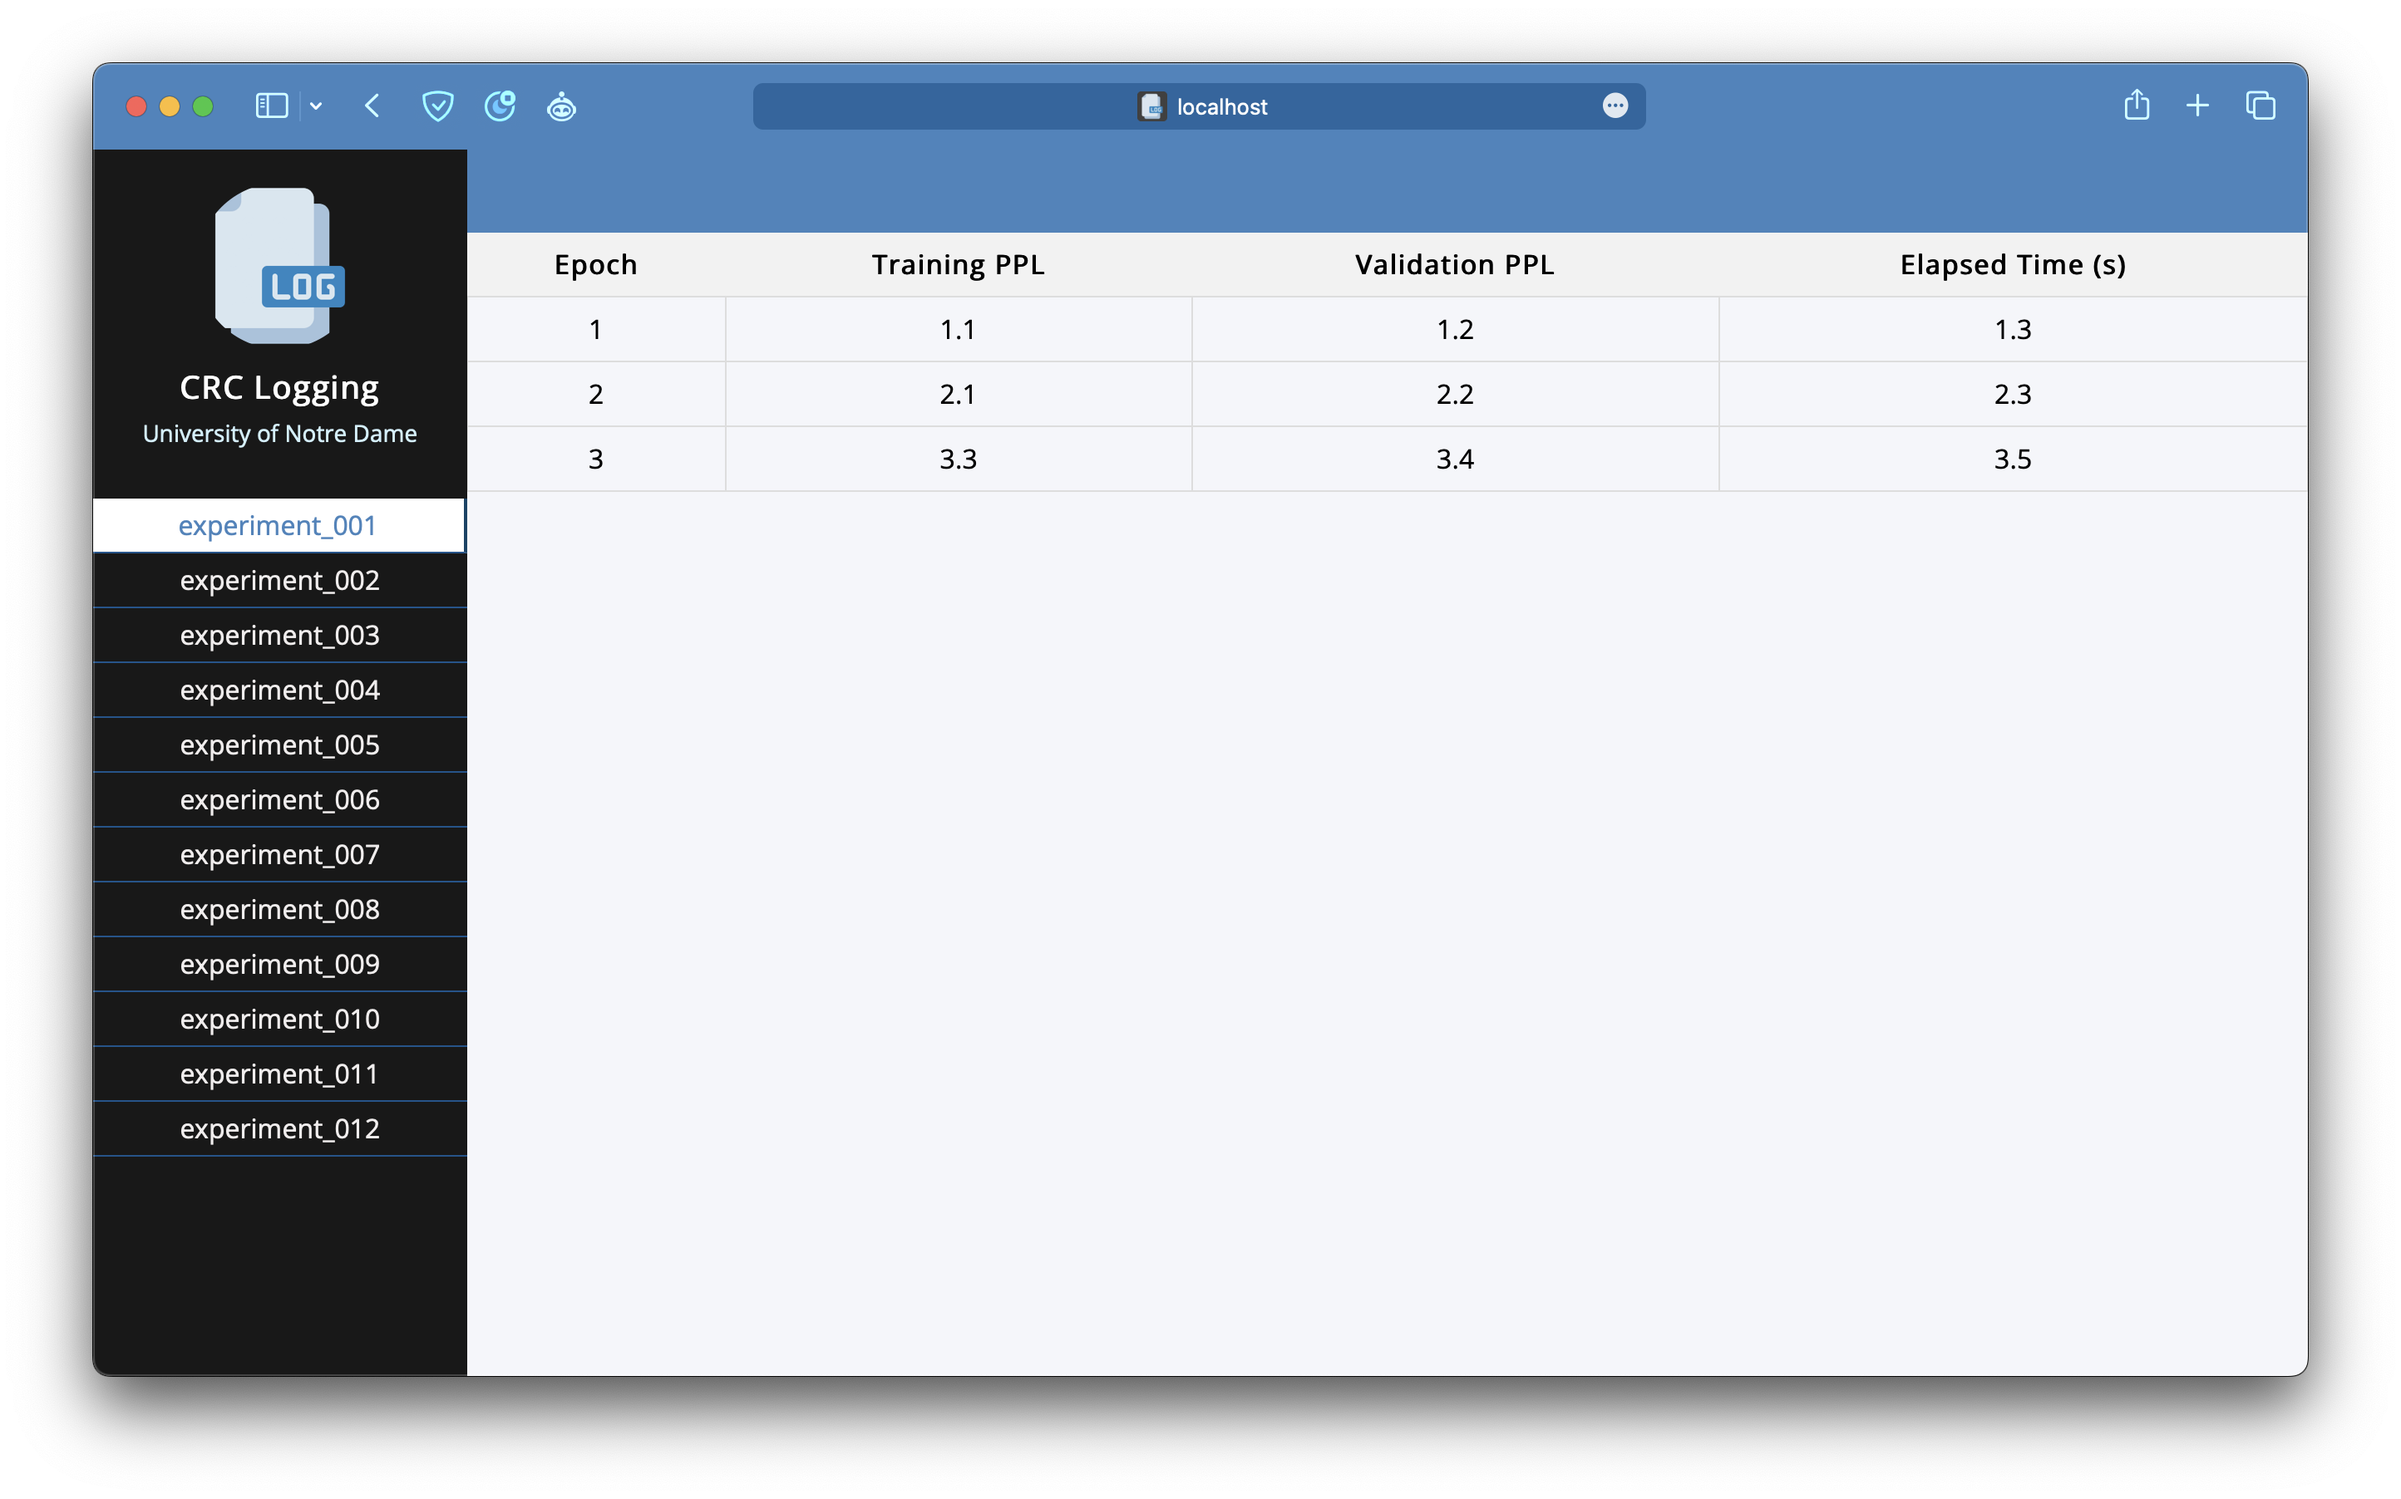
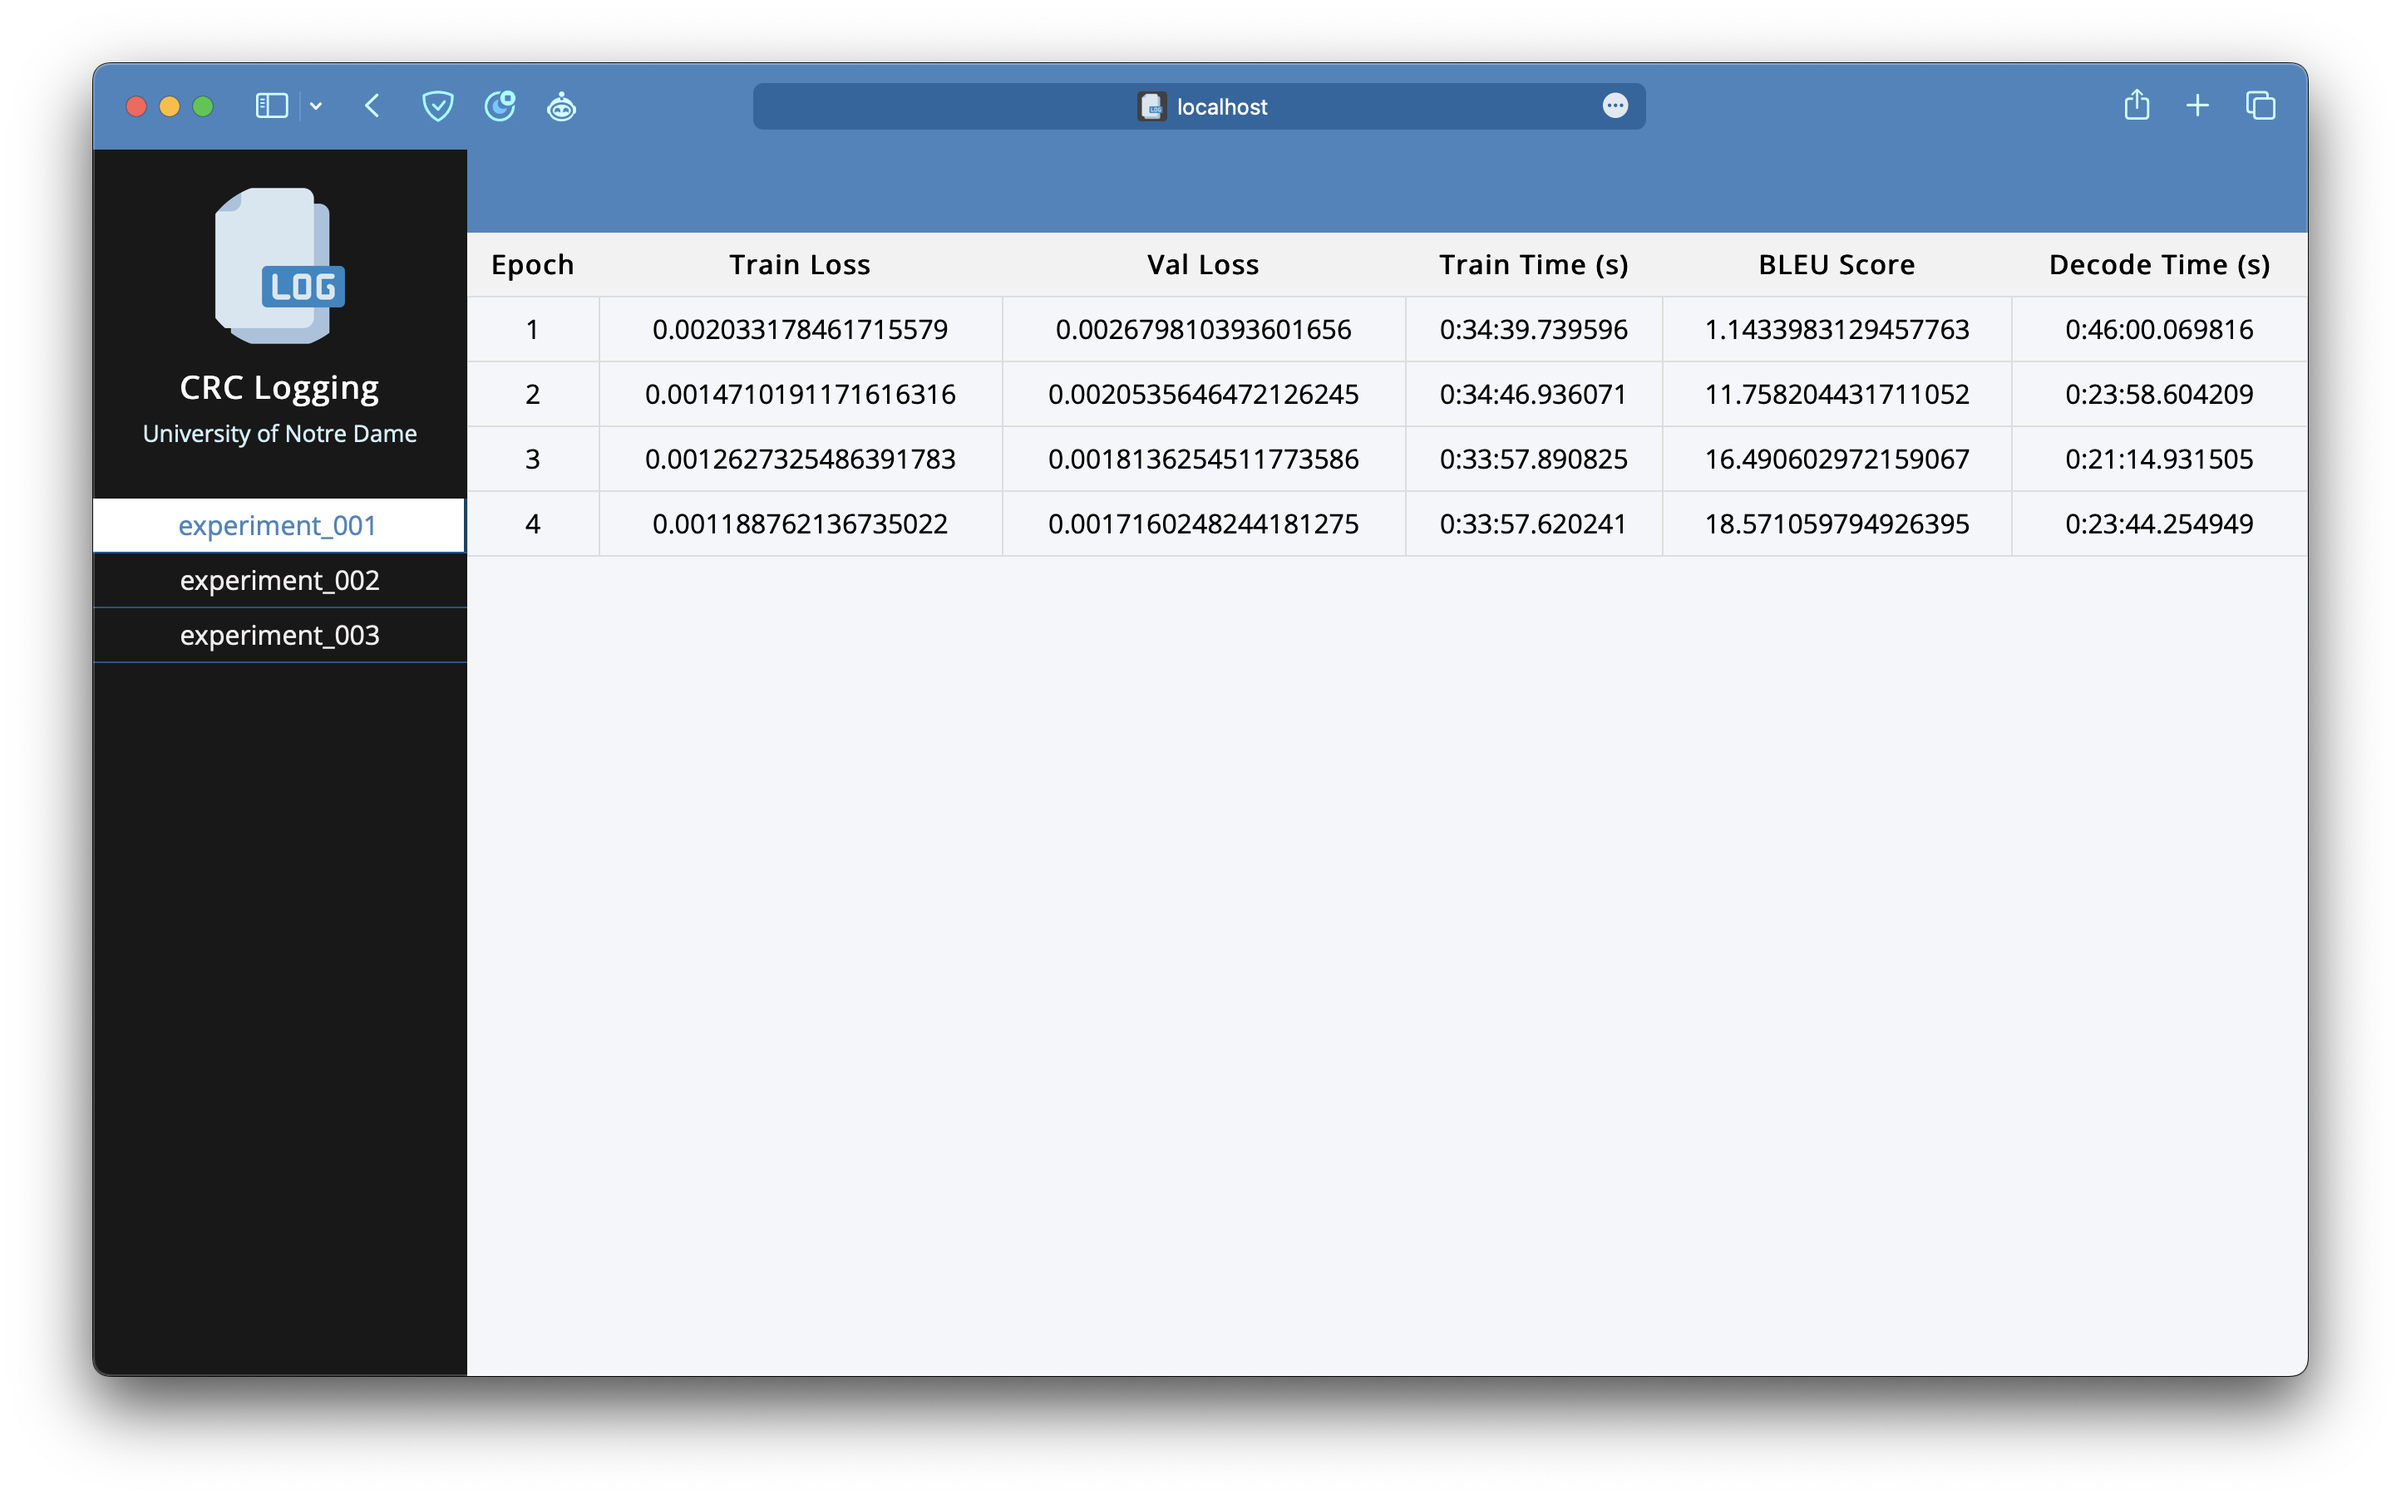
updated README; clarified installation

diff --git a/README.md b/README.md
@@ -5,13 +5,18 @@
 ```
 git clone https://github.com/kennethsible/crclogging.git
 ```
-2. Install [Node.js](https://nodejs.org/en)
+2. Install [Node.js](https://nodejs.org/en) (should be installed already)
 ```
 sudo apt install nodejs npm
 ```
 3. Install [Express](https://expressjs.com)
 ```
+mv ~/.npm ~/.npm-backup
+mkdir /tmp/shampton
+ln -s /tmp/shampton ~/.npm
 npm install express
+rm ~/.npm
+mv /tmp/shampton ~/.npm
 ```
 ## Usage
 1. Launch Tmux (on remote)
@@ -22,13 +27,13 @@ tmux
 ```
 node server.js
 ```
-3. Export to `public/markdown/experiment_name.md` (on remote)
+3. Export Log to `public/markdown/*.md` (on remote)
 ```
-| Epoch | Training PPL | Validation PPL |
+|     |     |     |
 |:---:|:---:|:---:|
-| 1 | 1.1 | 1.2 |
-| 2 | 2.1 | 2.2 |
-| 3 | 3.3 | 3.4 |
+|     |     |     |
+|     |     |     |
+|     |     |     |
 ```
 4. Forward Port 8080 (on local)
 ```

diff --git a/public/markdown/experiment_001.md b/public/markdown/experiment_001.md
@@ -1,5 +1,6 @@
-| Epoch | Training PPL | Validation PPL | Elapsed Time (s) |
-|:---:|:---:|:---:|:---:|
-| 1 | 1.1 | 1.2 | 1.3 |
-| 2 | 2.1 | 2.2 | 2.3 |
-| 3 | 3.3 | 3.4 | 3.5 |
+| Epoch | Train Loss | Val Loss | Train Time (s) | BLEU Score | Decode Time (s) |
+|:---:|:---:|:---:|:---:|:---:|:---:|
+| 1 | 0.002033178461715579 | 0.002679810393601656 | 0:34:39.739596 | 1.1433983129457763 | 0:46:00.069816 |
+| 2 | 0.0014710191171616316 | 0.0020535646472126245 | 0:34:46.936071 | 11.758204431711052 | 0:23:58.604209 |
+| 3 | 0.0012627325486391783 | 0.0018136254511773586 | 0:33:57.890825 | 16.490602972159067 | 0:21:14.931505 |
+| 4 | 0.001188762136735022 | 0.0017160248244181275 | 0:33:57.620241 | 18.571059794926395 | 0:23:44.254949 |

diff --git a/public/markdown/experiment_002.md b/public/markdown/experiment_002.md
@@ -1,5 +1,6 @@
-| Epoch | Training PPL | Validation PPL | Elapsed Time (s) |
-|:---:|:---:|:---:|:---:|
-| 1 | 4.1 | 4.2 | 4.3 |
-| 2 | 5.1 | 5.2 | 5.3 |
-| 3 | 6.3 | 6.4 | 6.5 |
+| Epoch | Train Loss | Val Loss | Train Time (s) | BLEU Score | Decode Time (s) |
+|:---:|:---:|:---:|:---:|:---:|:---:|
+| 1 | 0.002033178461715579 | 0.002679810393601656 | 0:34:39.739596 | 1.1433983129457763 | 0:46:00.069816 |
+| 2 | 0.0014710191171616316 | 0.0020535646472126245 | 0:34:46.936071 | 11.758204431711052 | 0:23:58.604209 |
+| 3 | 0.0012627325486391783 | 0.0018136254511773586 | 0:33:57.890825 | 16.490602972159067 | 0:21:14.931505 |
+| 4 | 0.001188762136735022 | 0.0017160248244181275 | 0:33:57.620241 | 18.571059794926395 | 0:23:44.254949 |

diff --git a/public/markdown/experiment_003.md b/public/markdown/experiment_003.md
@@ -1,5 +1,6 @@
-| Epoch | Training PPL | Validation PPL | Elapsed Time (s) |
-|:---:|:---:|:---:|:---:|
-| 1 | 7.1 | 7.2 | 7.3 |
-| 2 | 8.1 | 8.2 | 8.3 |
-| 3 | 9.3 | 9.4 | 9.5 |
+| Epoch | Train Loss | Val Loss | Train Time (s) | BLEU Score | Decode Time (s) |
+|:---:|:---:|:---:|:---:|:---:|:---:|
+| 1 | 0.002033178461715579 | 0.002679810393601656 | 0:34:39.739596 | 1.1433983129457763 | 0:46:00.069816 |
+| 2 | 0.0014710191171616316 | 0.0020535646472126245 | 0:34:46.936071 | 11.758204431711052 | 0:23:58.604209 |
+| 3 | 0.0012627325486391783 | 0.0018136254511773586 | 0:33:57.890825 | 16.490602972159067 | 0:21:14.931505 |
+| 4 | 0.001188762136735022 | 0.0017160248244181275 | 0:33:57.620241 | 18.571059794926395 | 0:23:44.254949 |
